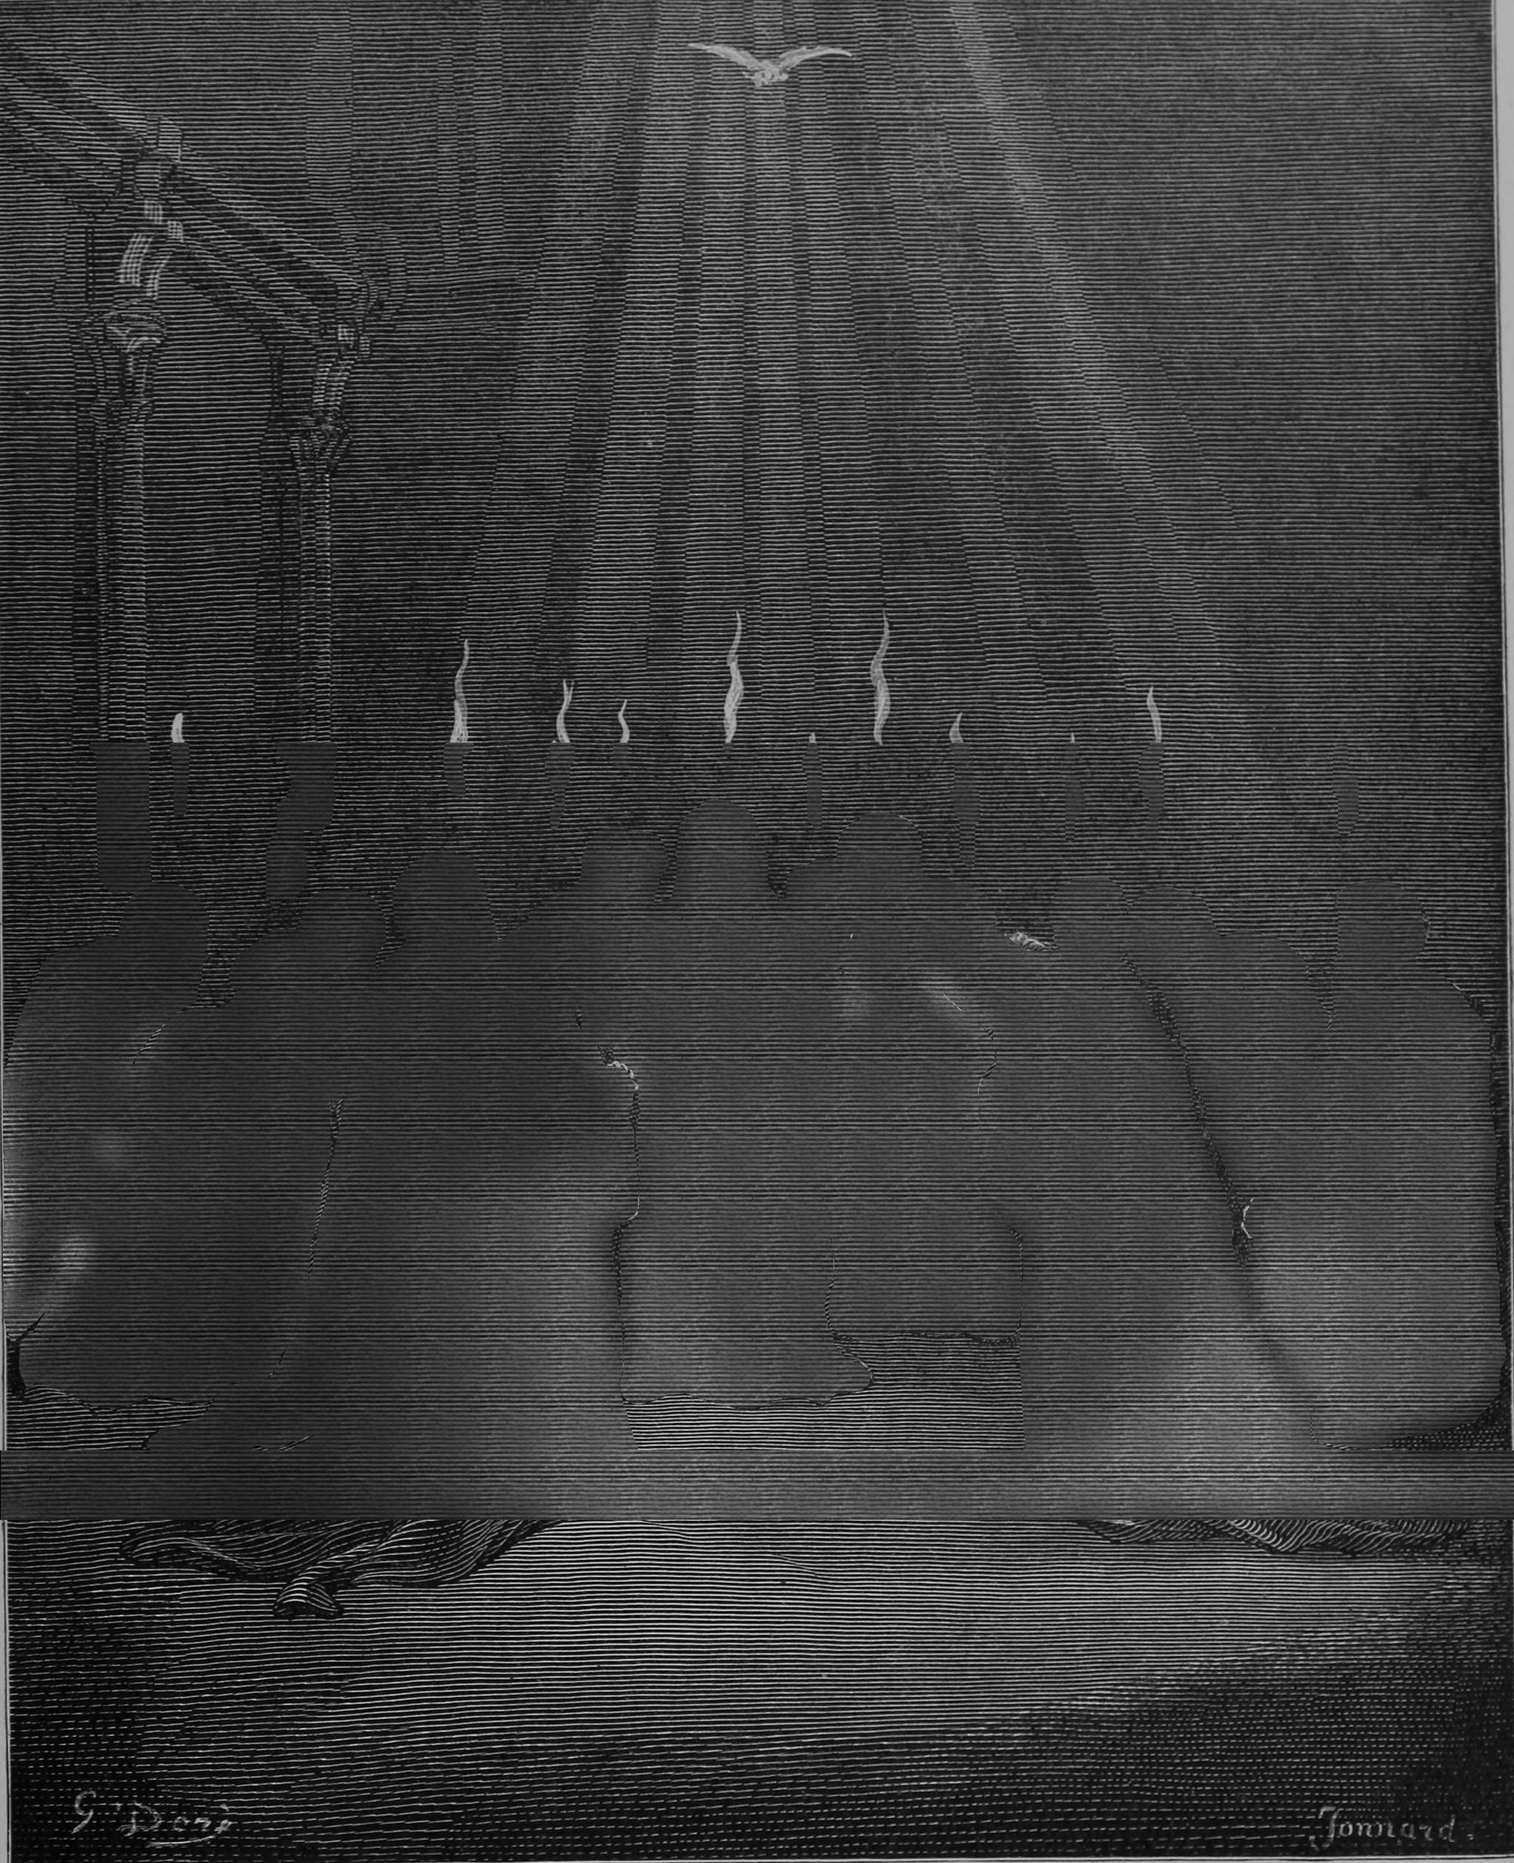
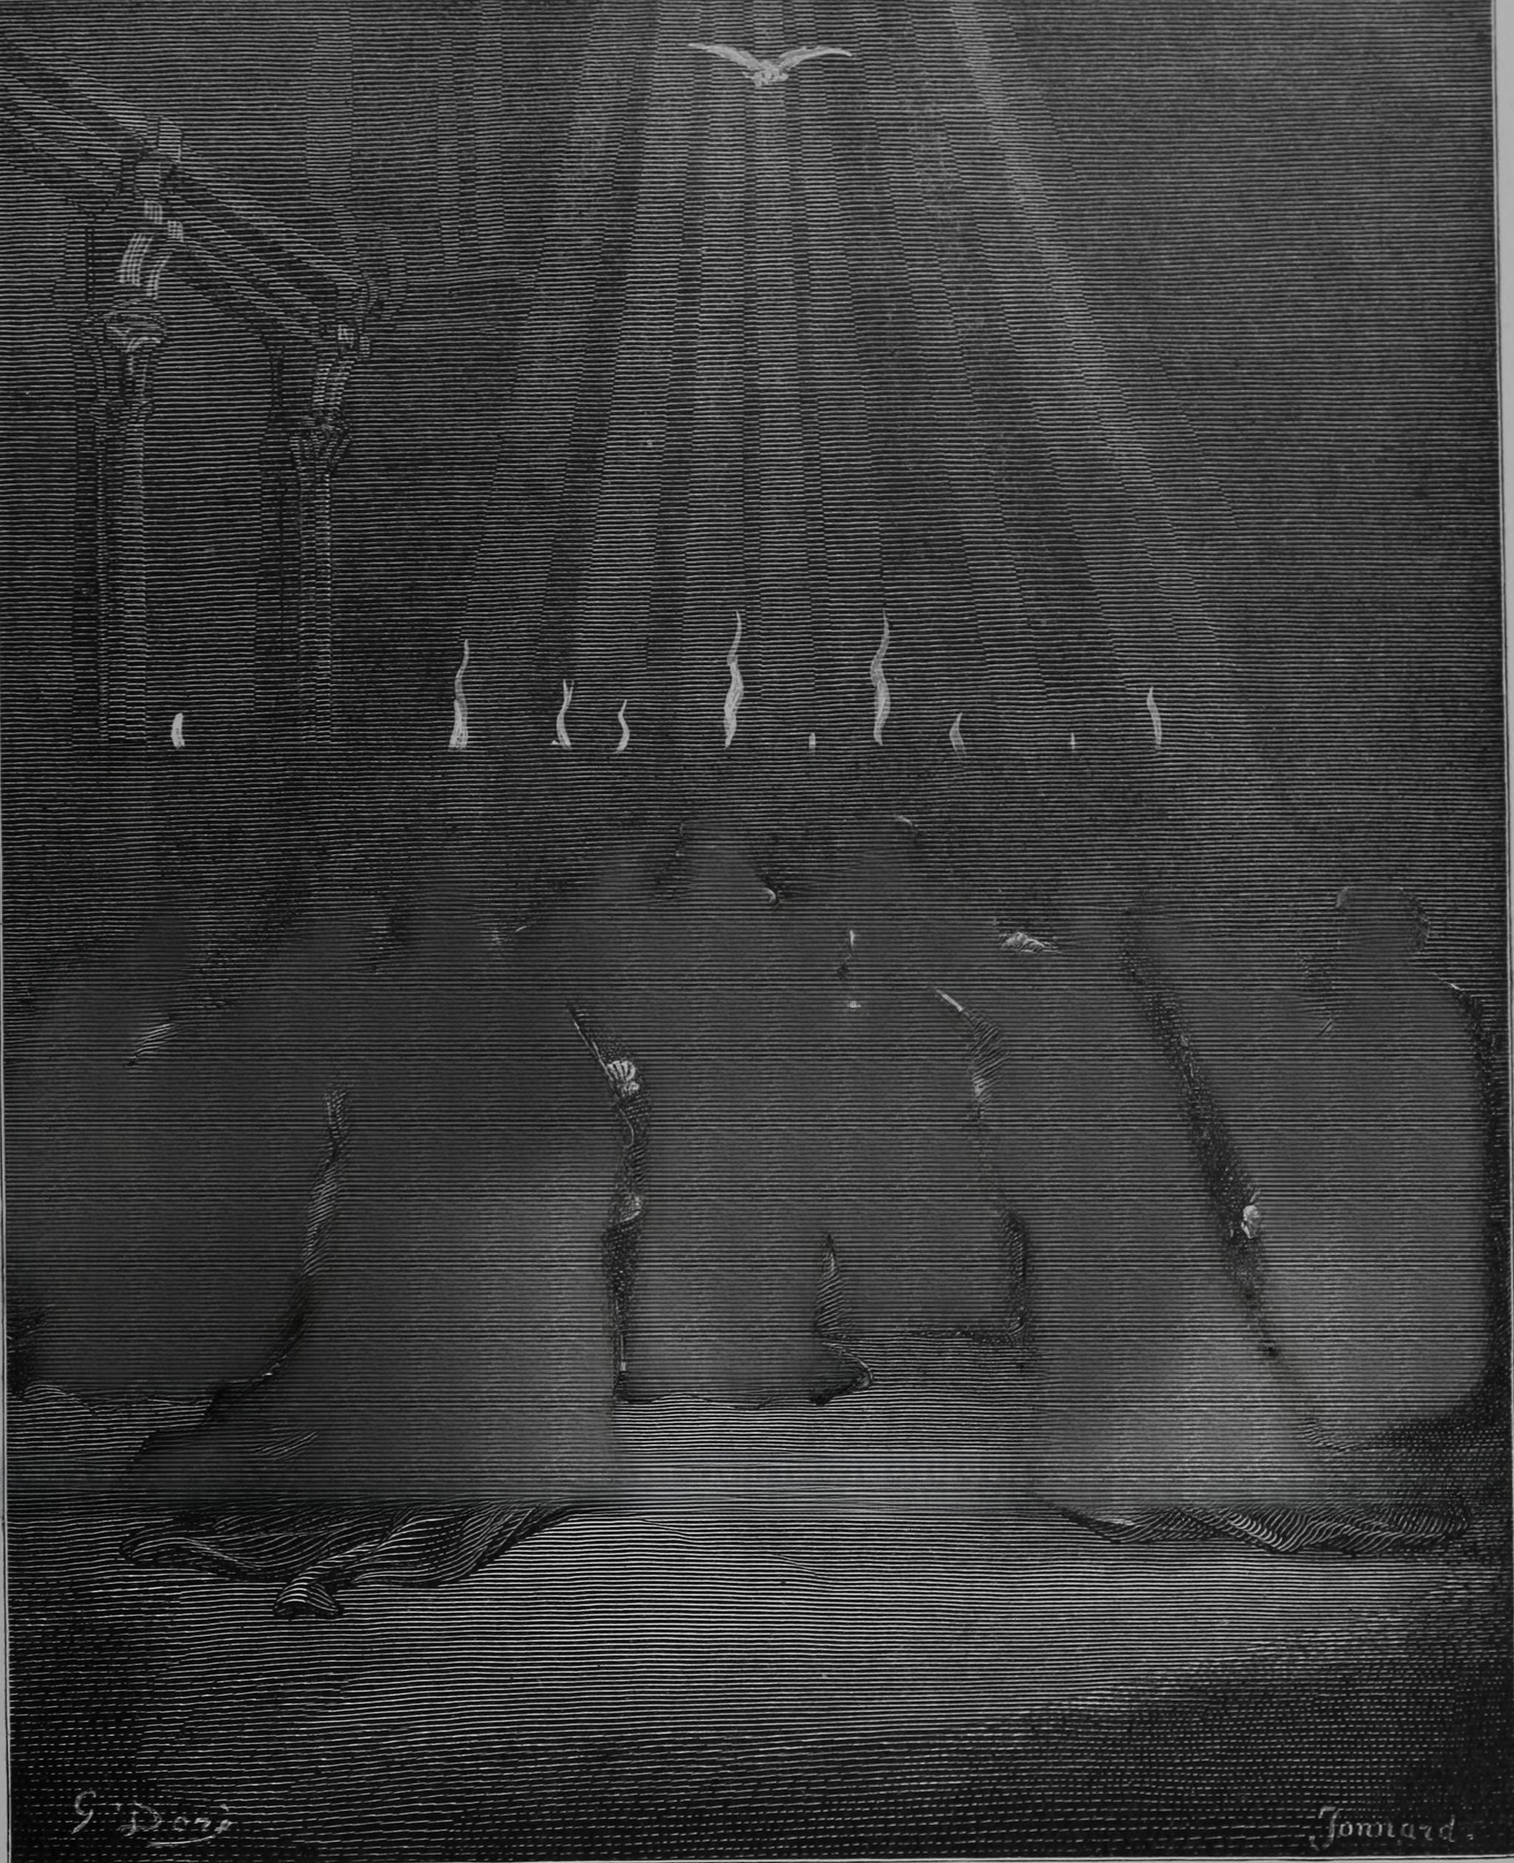
feat(recut): LaMa ring pass so the wall fill sits on the plate's rows
The tiled wall fill matched tone but not hatch phase: at every hole
boundary the engraved rows jumped, tracing each figure's silhouette in the
crowd map and the backdrop. LaMa (big-lama via simple-lama-inpainting) now
re-inpaints a 48px ring just inside each boundary on top of the tiled fill,
so it sees plate on one side and the fill on the other and continues both.
The deep interior stays the tone-matched tile, which a learned model would
smear on a hole this large; inference runs in overlapping 1024px windows
since the full plate swaps on 16 GB.

Hatch-row continuity across the boundary (exp_lama_fill.py): tile 0.32,
LaMa over the whole hole 0.56 but 10% too dark (it inherits Doré's halo),
ring 0.54 at exact tone. --fill tile keeps the old instant path.

Closes #18, closes #19.

Claude-Session: https://claude.ai/code/session_01XkqtsnKhVTQbKsCyDLmGRB

diff --git a/tools/recut/exp_lama_fill.py b/tools/recut/exp_lama_fill.py
@@ -1,0 +1,144 @@
+"""Experiment for issue #19: LaMa vs the tiled wall fill in the crowd map.
+
+Builds three crowd maps from the masks already in dist/ (no SAM re-run):
+  tile       synth_crowd_map as shipped
+  lama       LaMa over the whole (dilated) hole, straight off the plate
+  lama-ring  the tile fill, then LaMa over a RING_PX band inside the hole
+             boundary only — it reconciles the tile's hatch phase with the
+             plate's rows while the deep interior stays the tile fill, so
+             a huge hole cannot smear
+
+Outputs, in dist/:
+  map-crowd-<variant>.jpg
+  exp-lama-<region>.png     side-by-side crops, tile | lama | lama-ring
+and prints, per variant: fill tone vs open wall, and hatch-row continuity
+across the hole boundary (correlation of the luminance row profile just
+inside vs just outside; 1.0 = same rows).
+
+Usage: .venv-recut/bin/python tools/recut/exp_lama_fill.py
+"""
+
+import glob
+import time
+from pathlib import Path
+
+import cv2
+import numpy as np
+from PIL import Image
+
+import build_cuts as bc
+import lama_fill
+
+DIST = bc.DIST
+RING_PX = 48
+# plate-fraction crops for the side-by-side: x0, x1, y0, y1
+REGIONS = {
+    "mary-group": (0.28, 0.50, 0.38, 0.52),
+    "right-cluster": (0.58, 0.82, 0.40, 0.54),
+}
+
+
+def hole_from_dist(H: int, W: int) -> np.ndarray:
+    """The crowd map's hole, exactly as build_cuts computed it (crowd-hole.png).
+    Falls back to re-deriving it from the feathered masks, which lands a few
+    px inside the true silhouette and leaves the plate's rim highlights for
+    the inpainter to extrapolate — use only for a rough look."""
+    exact = DIST / "crowd-hole.png"
+    if exact.exists():
+        return (np.asarray(Image.open(exact).convert("L")) > 127).astype(np.uint8)
+    print("WARNING: dist/crowd-hole.png missing; re-deriving the hole from feathered masks")
+    band = np.zeros((H, W), np.uint8)
+    band[int(H * 0.40):int(H * 0.815)] = 1
+    others = np.zeros((H, W), np.uint8)
+    for f in glob.glob(str(DIST / "cut-*.png")):
+        if Path(f).stem in ("cut-crowd", "cut-floor"):
+            continue
+        a = np.asarray(Image.open(f).convert("L").resize((W, H), Image.BILINEAR))
+        others |= (a > 127).astype(np.uint8)
+    return band & others
+
+
+def continuity(map_rgb: np.ndarray, hole: np.ndarray, band: slice) -> float:
+    """Hatch-row continuity across the hole boundary. For each column that
+    crosses a boundary, correlate the luminance profile of the 24 rows just
+    outside with the 24 rows just inside, shifted to the same phase origin —
+    if the fill sits on the plate's rows the profiles line up."""
+    lum = map_rgb.mean(axis=2)
+    d_in = cv2.distanceTransform(hole, cv2.DIST_L2, 3)
+    d_out = cv2.distanceTransform(1 - hole, cv2.DIST_L2, 3)
+    # ring 3-11px either side of the boundary; the plate's own rim pixels
+    # (0-3px) are excluded because the fill swallows them by design
+    inner = (d_in > 3) & (d_in <= 11)
+    outer = (d_out > 3) & (d_out <= 11)
+    rows = np.zeros_like(hole, bool)
+    rows[band] = True
+    # horizontal hatch: phase is along y, so compare row-mean profiles of
+    # short vertical runs; a 1-px row offset flips the sign, so this is a
+    # sensitive test
+    ys_i, xs_i = np.nonzero(inner & rows)
+    ys_o, xs_o = np.nonzero(outer & rows)
+    prof_i = np.zeros(lum.shape[0]); cnt_i = np.zeros(lum.shape[0])
+    prof_o = np.zeros(lum.shape[0]); cnt_o = np.zeros(lum.shape[0])
+    np.add.at(prof_i, ys_i, lum[ys_i, xs_i]); np.add.at(cnt_i, ys_i, 1)
+    np.add.at(prof_o, ys_o, lum[ys_o, xs_o]); np.add.at(cnt_o, ys_o, 1)
+    ok = (cnt_i > 20) & (cnt_o > 20)
+    pi = prof_i[ok] / cnt_i[ok]
+    po = prof_o[ok] / cnt_o[ok]
+    pi = pi - cv2.GaussianBlur(pi.reshape(-1, 1), (0, 0), 6).ravel()
+    po = po - cv2.GaussianBlur(po.reshape(-1, 1), (0, 0), 6).ravel()
+    return float(np.corrcoef(pi, po)[0, 1])
+
+
+def tone(map_rgb: np.ndarray, plate: np.ndarray, hole: np.ndarray) -> tuple[float, float]:
+    """Deep-fill luminance vs open wall (plate pixels > 64px from any hole)."""
+    d_in = cv2.distanceTransform(hole, cv2.DIST_L2, 3)
+    d_out = cv2.distanceTransform(1 - hole, cv2.DIST_L2, 3)
+    H = hole.shape[0]
+    rows = slice(int(H * 0.40), int(H * 0.56))
+    deep = map_rgb[rows].mean(axis=2)[d_in[rows] > 30].mean()
+    open_wall = plate[rows].mean(axis=2)[d_out[rows] > 64].mean()
+    return float(deep), float(open_wall)
+
+
+def main() -> None:
+    plate = np.asarray(Image.open(bc.PLATE).convert("RGB"))
+    H, W, _ = plate.shape
+    hole = hole_from_dist(H, W)
+    k7 = cv2.getStructuringElement(cv2.MORPH_ELLIPSE, (7, 7))
+    hole7 = cv2.dilate(hole, k7)
+    print(f"hole: {hole.sum() / (H * W) * 100:.1f}% of plate")
+
+    variants: dict[str, np.ndarray] = {}
+    t = time.time()
+    variants["tile"] = bc.synth_crowd_map(plate, hole, bc.CROWD_PATCH)
+    print(f"tile       {time.time() - t:5.1f}s")
+
+    t = time.time()
+    variants["lama"] = lama_fill.inpaint(plate, hole7, log=print)
+    print(f"lama       {time.time() - t:5.1f}s")
+
+    t = time.time()
+    d_in = cv2.distanceTransform(hole7, cv2.DIST_L2, 3)
+    ring = ((d_in > 0) & (d_in <= RING_PX)).astype(np.uint8)
+    variants["lama-ring"] = lama_fill.inpaint(variants["tile"], ring, log=print)
+    print(f"lama-ring  {time.time() - t:5.1f}s  (ring {ring.sum() / hole7.sum() * 100:.0f}% of hole)")
+
+    band = slice(int(H * 0.40), int(H * 0.56))
+    print(f"\n{'variant':10s} {'deep fill':>9s} {'open wall':>9s} {'ratio':>6s} {'row-continuity':>15s}")
+    print(f"{'plate':10s} {'':>9s} {'':>9s} {'':>6s} {continuity(plate, hole7, band):15.3f}   (the figures themselves: floor)")
+    for name, m in variants.items():
+        deep, wall = tone(m, plate, hole7)
+        print(f"{name:10s} {deep:9.1f} {wall:9.1f} {deep / wall:6.2f} {continuity(m, hole7, band):15.3f}")
+        Image.fromarray(m).save(DIST / f"map-crowd-{name}.jpg", quality=85)
+
+    for rname, (x0, x1, y0, y1) in REGIONS.items():
+        box = (slice(int(H * y0), int(H * y1)), slice(int(W * x0), int(W * x1)))
+        crops = [variants[k][box] for k in ("tile", "lama", "lama-ring")]
+        gap = np.full((crops[0].shape[0], 6, 3), 255, np.uint8)
+        side = np.concatenate([crops[0], gap, crops[1], gap, crops[2]], axis=1)
+        Image.fromarray(side).save(DIST / f"exp-lama-{rname}.png")
+    print(f"\nwrote {', '.join(f'map-crowd-{k}.jpg' for k in variants)} and exp-lama-*.png to {DIST}")
+
+
+if __name__ == "__main__":
+    main()

diff --git a/tools/recut/build_cuts.py b/tools/recut/build_cuts.py
@@ -16,9 +16,20 @@ Outputs, in tools/recut/dist/:
   qc-masks.png       tinted composite of the final masks
   qc-rest.png        cuts composited over the backdrop at rest (should look
                      like the plate)
+  crowd-hole.png     the exact crowd-map hole, for fill experiments
 
-Usage: .venv-recut/bin/python tools/recut/build_cuts.py
+Fills (--fill):
+  lama-ring  default. The tiled, tone-matched fill, then LaMa re-inpaints a
+             LAMA_RING_PX band just inside every hole boundary so the hatch
+             continues on the plate's own rows (issue #19). Needs
+             simple-lama-inpainting in .venv-recut; ~3 min on CPU.
+  tile       the tiled fill alone; instant, but the hatch phase jumps at the
+             boundary and traces each figure's silhouette.
+
+Usage: .venv-recut/bin/python tools/recut/build_cuts.py [--fill tile|lama-ring]
 """
+
+import argparse
 
 import json
 from pathlib import Path
@@ -223,6 +234,31 @@ CROWD_SHADOW_R = 32     # px the shading takes to reach full depth inside a hole
 # the figure has moved off it, so open wall this far from any figure is the
 # only wall the deep fill matches; the halo tone survives only at the rim.
 CROWD_HALO_PX = 64
+# the hole grows this much before filling: the plate's engraved rim
+# highlights often sit just outside the segmentation mask, and left in the
+# crowd they would trace the figure's outline as the layers slide apart
+CROWD_HOLE_GROW = 7
+
+# LaMa re-inpaints this band inside each hole boundary (see ring_mask). Wide
+# enough to bend the tile's hatch onto the plate's rows; narrow enough that
+# the deep interior — where a learned model smears on a hole this size —
+# stays the tone-matched tile fill.
+LAMA_RING_PX = 48
+
+
+def ring_mask(hole: np.ndarray, ring_px: int = LAMA_RING_PX) -> np.ndarray:
+    """The band of hole pixels within ring_px of the hole boundary."""
+    dist = cv2.distanceTransform(hole, cv2.DIST_L2, 3)
+    return ((dist > 0) & (dist <= ring_px)).astype(np.uint8)
+
+
+def lama_ring(img: np.ndarray, hole: np.ndarray, ring_px: int = LAMA_RING_PX) -> np.ndarray:
+    """Re-inpaint the ring just inside `hole` with LaMa, on top of a fill
+    that already owns the hole. LaMa sees plate on one side of the ring and
+    the fill on the other and continues both, so the hatch phase no longer
+    jumps at the silhouette. Imported lazily: only this path needs torch."""
+    import lama_fill
+    return lama_fill.inpaint(img, ring_mask(hole, ring_px), log=print)
 
 
 def synth_crowd_map(plate: np.ndarray, hole: np.ndarray,
@@ -233,10 +269,7 @@ def synth_crowd_map(plate: np.ndarray, hole: np.ndarray,
     y0, y1, x0, x1 = patch_box
     img = plate.astype(np.float32)
     H, W = hole.shape
-    # grow the hole a few px: the plate's engraved rim highlights often sit
-    # just outside the segmentation mask, and left in the crowd they would
-    # trace the figure's outline as the layers slide apart
-    hole = cv2.dilate(hole, cv2.getStructuringElement(cv2.MORPH_ELLIPSE, (7, 7)))
+    hole = cv2.dilate(hole, cv2.getStructuringElement(cv2.MORPH_ELLIPSE, (CROWD_HOLE_GROW,) * 2))
     fill = tiled(img[y0:y1, x0:x1], H, W)
     # a figure's absence must not read as its silhouette: every treatment is
     # a diffuse field — zero at the hole boundary, full only deep inside — so
@@ -298,6 +331,9 @@ def save_mask(name: str, alpha: np.ndarray, size: tuple[int, int]) -> None:
 
 
 def main() -> None:
+    ap = argparse.ArgumentParser(description=__doc__, formatter_class=argparse.RawDescriptionHelpFormatter)
+    ap.add_argument("--fill", choices=("tile", "lama-ring"), default="lama-ring")
+    fill_mode = ap.parse_args().fill
     DIST.mkdir(exist_ok=True)
     plate = np.asarray(Image.open(PLATE).convert("RGB"))
     gray = np.asarray(Image.open(PLATE).convert("L"))
@@ -385,7 +421,14 @@ def main() -> None:
     band = np.zeros((H, W), np.uint8)
     band[int(H * 0.40):int(H * 0.815)] = 1
     print("filling crowd map…")
-    crowd_map = synth_crowd_map(plate, band & (1 - crowd), CROWD_PATCH)
+    crowd_hole = band & (1 - crowd)
+    # the exact hole, for fill experiments that must not re-derive it
+    Image.fromarray(crowd_hole * 255).save(DIST / "crowd-hole.png", optimize=True)
+    crowd_map = synth_crowd_map(plate, crowd_hole, CROWD_PATCH)
+    if fill_mode == "lama-ring":
+        # the ring is measured from the hole the fill actually owns (grown)
+        grown = cv2.dilate(crowd_hole, cv2.getStructuringElement(cv2.MORPH_ELLIPSE, (CROWD_HOLE_GROW,) * 2))
+        crowd_map = lama_ring(crowd_map, grown)
     Image.fromarray(crowd_map).save(DIST / "map-crowd.jpg", quality=85)
 
     # backdrop: fill every cut region (grown a little) from row texture
@@ -395,6 +438,8 @@ def main() -> None:
     hole = cv2.dilate(hole, cv2.getStructuringElement(cv2.MORPH_ELLIPSE, (DILATE_PX * 2 + 1,) * 2))
     print("filling backdrop…")
     backdrop = synth_backdrop(plate, hole)
+    if fill_mode == "lama-ring":
+        backdrop = lama_ring(backdrop, hole)
     Image.fromarray(backdrop).save(DIST / "plate-backdrop.png", optimize=True)
 
     # QC images

diff --git a/tools/recut/lama_fill.py b/tools/recut/lama_fill.py
@@ -1,0 +1,81 @@
+"""LaMa inpainting for the recut fills (issue #19).
+
+A thin wrapper over simple-lama-inpainting's big-lama, loaded lazily so the
+rest of the pipeline (and its tests) never import torch. Weights
+(big-lama.pt, ~196 MB) download once into ~/.cache/torch/hub/checkpoints.
+
+LaMa's Fourier convolutions continue repeating textures — the plate's
+engraved hatching — on the plate's own rows, which is what a tiled patch
+cannot do at a hole boundary.
+
+The full 2048x2519 plate does not fit a 16 GB machine in one pass (it swaps
+for 10+ minutes), so inference runs in overlapping windows that touch the
+hole, ramp-blended where windows overlap. Each window sees WINDOW px of
+context, far more than the hatch period, so per-window fills agree.
+"""
+
+import numpy as np
+from PIL import Image
+
+WINDOW = 1024       # inference window, px (multiple of 8)
+OVERLAP = 192       # windows overlap this much; blend ramps across it
+
+_model = None
+
+
+def _lama():
+    global _model
+    if _model is None:
+        from simple_lama_inpainting import SimpleLama
+        _model = SimpleLama()
+    return _model
+
+
+def _inpaint_once(img: np.ndarray, hole: np.ndarray) -> np.ndarray:
+    out = _lama()(Image.fromarray(img), Image.fromarray((hole > 0).astype(np.uint8) * 255))
+    # the model pads to a multiple of 8; crop back to the input size
+    return np.asarray(out.convert("RGB"))[: img.shape[0], : img.shape[1]]
+
+
+def windows(H: int, W: int, size: int = WINDOW, overlap: int = OVERLAP) -> list[tuple[int, int, int, int]]:
+    """(y0, y1, x0, x1) windows covering HxW, each `size` px where possible,
+    stepping size-overlap. The last window in each axis is pulled back to
+    the edge so every window is full-size (LaMa likes fixed context)."""
+    def starts(n: int) -> list[int]:
+        if n <= size:
+            return [0]
+        step = size - overlap
+        s = list(range(0, n - size, step))
+        s.append(n - size)
+        return s
+    return [(y, min(y + size, H), x, min(x + size, W)) for y in starts(H) for x in starts(W)]
+
+
+def _ramp(n: int, overlap: int) -> np.ndarray:
+    """1-D blend weight: linear ramp up over `overlap` px, flat, ramp down."""
+    w = np.ones(n, np.float32)
+    r = np.linspace(0, 1, overlap + 2, dtype=np.float32)[1:-1]
+    k = min(overlap, n // 2)
+    w[:k] = r[:k]
+    w[n - k:] = r[:k][::-1]
+    return w
+
+
+def inpaint(img: np.ndarray, hole: np.ndarray, log=None) -> np.ndarray:
+    """Fill `hole` (1 = replace) in an HxWx3 uint8 image. LaMa ignores the
+    pixels under the mask, so what the hole contains does not matter.
+    Pixels outside the hole are returned untouched."""
+    H, W = hole.shape
+    acc = np.zeros((H, W, 3), np.float32)
+    wsum = np.zeros((H, W, 1), np.float32)
+    wins = [w for w in windows(H, W) if hole[w[0]:w[1], w[2]:w[3]].any()]
+    for i, (y0, y1, x0, x1) in enumerate(wins):
+        if log:
+            log(f"  lama window {i + 1}/{len(wins)} ({y0},{x0})")
+        out = _inpaint_once(img[y0:y1, x0:x1], hole[y0:y1, x0:x1]).astype(np.float32)
+        w = np.outer(_ramp(y1 - y0, OVERLAP), _ramp(x1 - x0, OVERLAP))[..., None]
+        acc[y0:y1, x0:x1] += out * w
+        wsum[y0:y1, x0:x1] += w
+    filled = np.where(wsum > 0, acc / np.maximum(wsum, 1e-6), img.astype(np.float32))
+    m = (hole > 0)[..., None]
+    return np.where(m, filled, img).clip(0, 255).astype(np.uint8)

diff --git a/tools/recut/test_build_cuts.py b/tools/recut/test_build_cuts.py
@@ -11,7 +11,7 @@ import numpy as np
 
 import pytest
 
-from build_cuts import FIG_Z, band_alpha, build_manifest, figure_z, merge_figures, synth_crowd_map
+from build_cuts import FIG_Z, band_alpha, build_manifest, figure_z, merge_figures, ring_mask, synth_crowd_map
 
 
 def crowd_scene() -> tuple[np.ndarray, np.ndarray, tuple[int, int, int, int]]:
@@ -228,3 +228,14 @@ def test_figure_z_maps_lowest_row_onto_the_z_range_and_applies_overrides():
     assert z[3] == FIG_Z[1]  # lowest bottom row -> frontmost
     assert z[7] == 1.4  # override wins over the interpolated midpoint
     assert 99 not in z  # overrides for absent figures are ignored
+
+
+def test_ring_mask_is_the_band_just_inside_the_hole_boundary():
+    _, hole, _ = crowd_scene()
+
+    ring = ring_mask(hole, ring_px=20)
+
+    d = hole_depth()
+    np.testing.assert_array_equal(ring == 1, (d > 0) & (d <= 20))
+    assert ring[hole == 0].sum() == 0  # never touches the plate outside the hole
+    assert ring[150, 200] == 0  # the deep interior is left to the base fill
